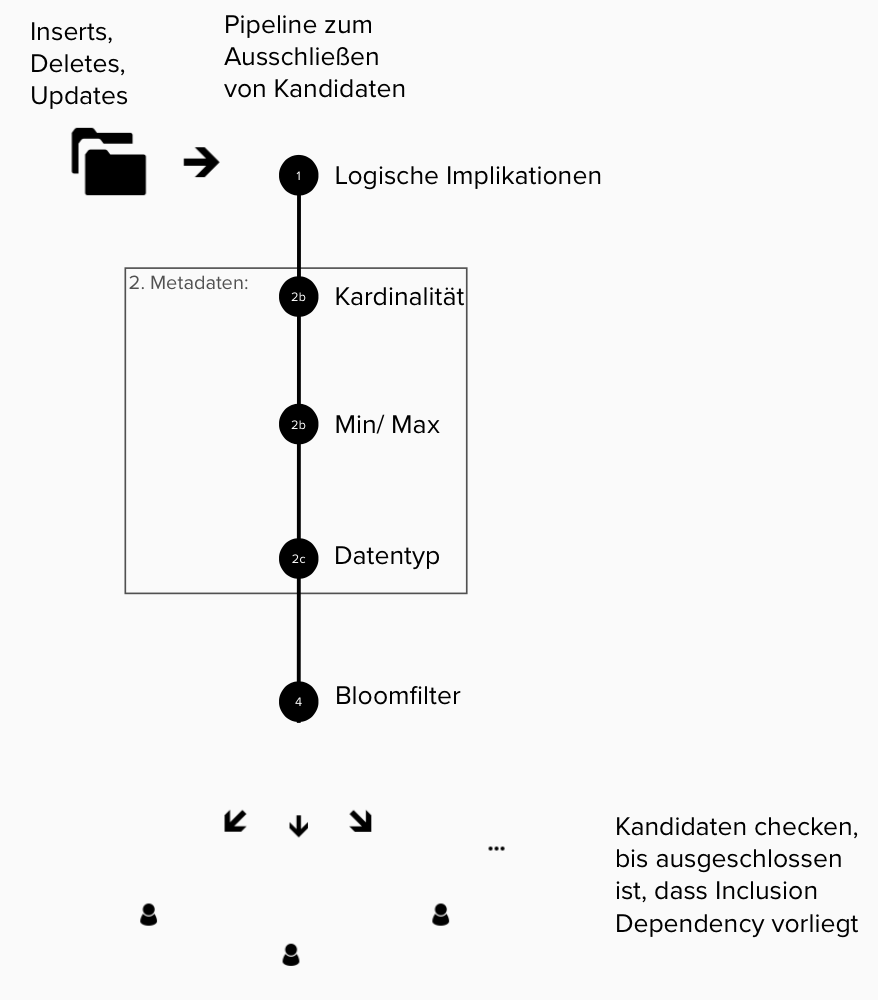
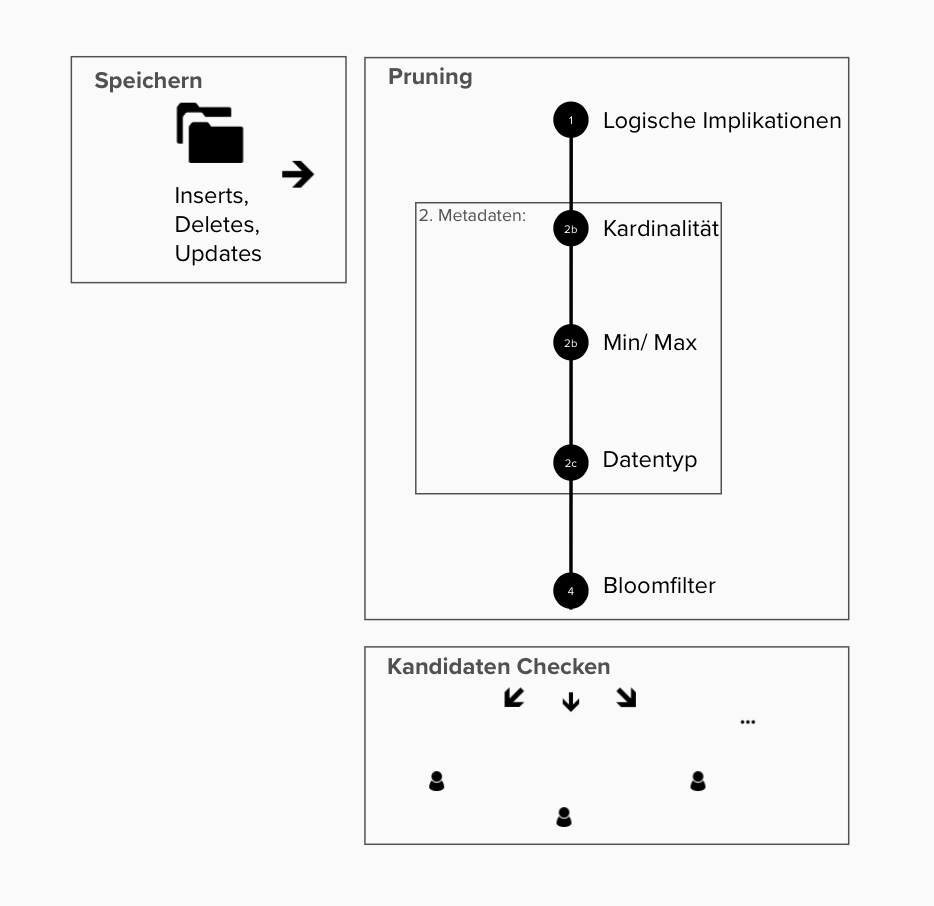
Beginn Algorithmus

diff --git a/D5_Algorithmenentwurf.md b/D5_Algorithmenentwurf.md
@@ -4,6 +4,8 @@
 
 Die Inserts, Updates und Deletes werden zunächst gespeichert.
 
+## Pruning
+
 In der Pruningphase sollen durch Vorarbeit viele mögliche Kandidaten für Inclusion Dependencies ausgeschlossen werden. Anstatt also, dass wie bei einem statischen Algorithmus, auf der gesamten Datenmenge nach Inclusion Dependencies gesucht wird, wird nur in den Attributen gesucht, in denen eine Abhängigkeit überhaupt in Frage kommt. Im Status Quo suchen wir lediglich nach unären Inclusion Dependencies. Als Fortführung könnte man nach n-ären Inclusion Dependencies suchen.
 
 In einer Pipeline werden nacheinander durch verschiedene Prüfungen Kandidaten ausgeschlossen.
@@ -15,13 +17,15 @@ In einer Pipeline werden nacheinander durch verschiedene Prüfungen Kandidaten a
 
 2. Aus den Metadaten der Attribute kann man auch Kandidaten ausschließen.
 
-2a) Kardinalitäten
-Wenn A mehr einzigartige Werte als B hat, dann kann A nicht in B enthalten sein. Somit muss eine Inclusion Dependency von A in B nur überprüft werden, wenn |A|<|B| oder |A|=|B|. Nicht aber wenn |A|>|B|.
+- a) Kardinalitäten
+  Wenn A mehr einzigartige Werte als B hat, dann kann A nicht in B enthalten sein. Somit muss eine Inclusion Dependency von A in B nur überprüft werden, wenn |A|<|B| oder |A|=|B|. Nicht aber wenn |A|>|B|.
 
-2b) Min-/Max-Werte
-Für die Extremwerte in einem Attribut kann man überprüfen ob eine Inclusion Dependency besteht. Wenn der Maxwert von A größer ist als der Maxwert von B, so enthält A Werte die es nicht in B gibt, also kann A nicht in B enthalten sein, B aber in A. Dasselbe gilt für den Minwert. Wenn der kleinste Wert in A kleiner ist als in B, kann A nicht in B enthalten sein. B aber in A. Somit können bei allen Kombinationen von Inclusion Dependencies die Min- und Maxwerte überprüft werden.
+- b) Min-/Max-Werte
+  Für die Extremwerte in einem Attribut kann man überprüfen ob eine Inclusion Dependency besteht. Wenn der Maxwert von A größer ist als der Maxwert von B, so enthält A Werte die es nicht in B gibt, also kann A nicht in B enthalten sein, B aber in A. Dasselbe gilt für den Minwert. Wenn der kleinste Wert in A kleiner ist als in B, kann A nicht in B enthalten sein. B aber in A. Somit können bei allen Kombinationen von Inclusion Dependencies die Min- und Maxwerte überprüft werden.
 
-2c)Datentyp
-Wenn A Datentypen enthält die es nicht in B gibt, dann kann A nicht in B sein.
+- c) Datentyp
+  Wenn A Datentypen enthält, die es nicht in B gibt, dann kann A nicht in B sein.
 
-3.
+3. Bloom Filter
+
+## Kandidaten Checken
